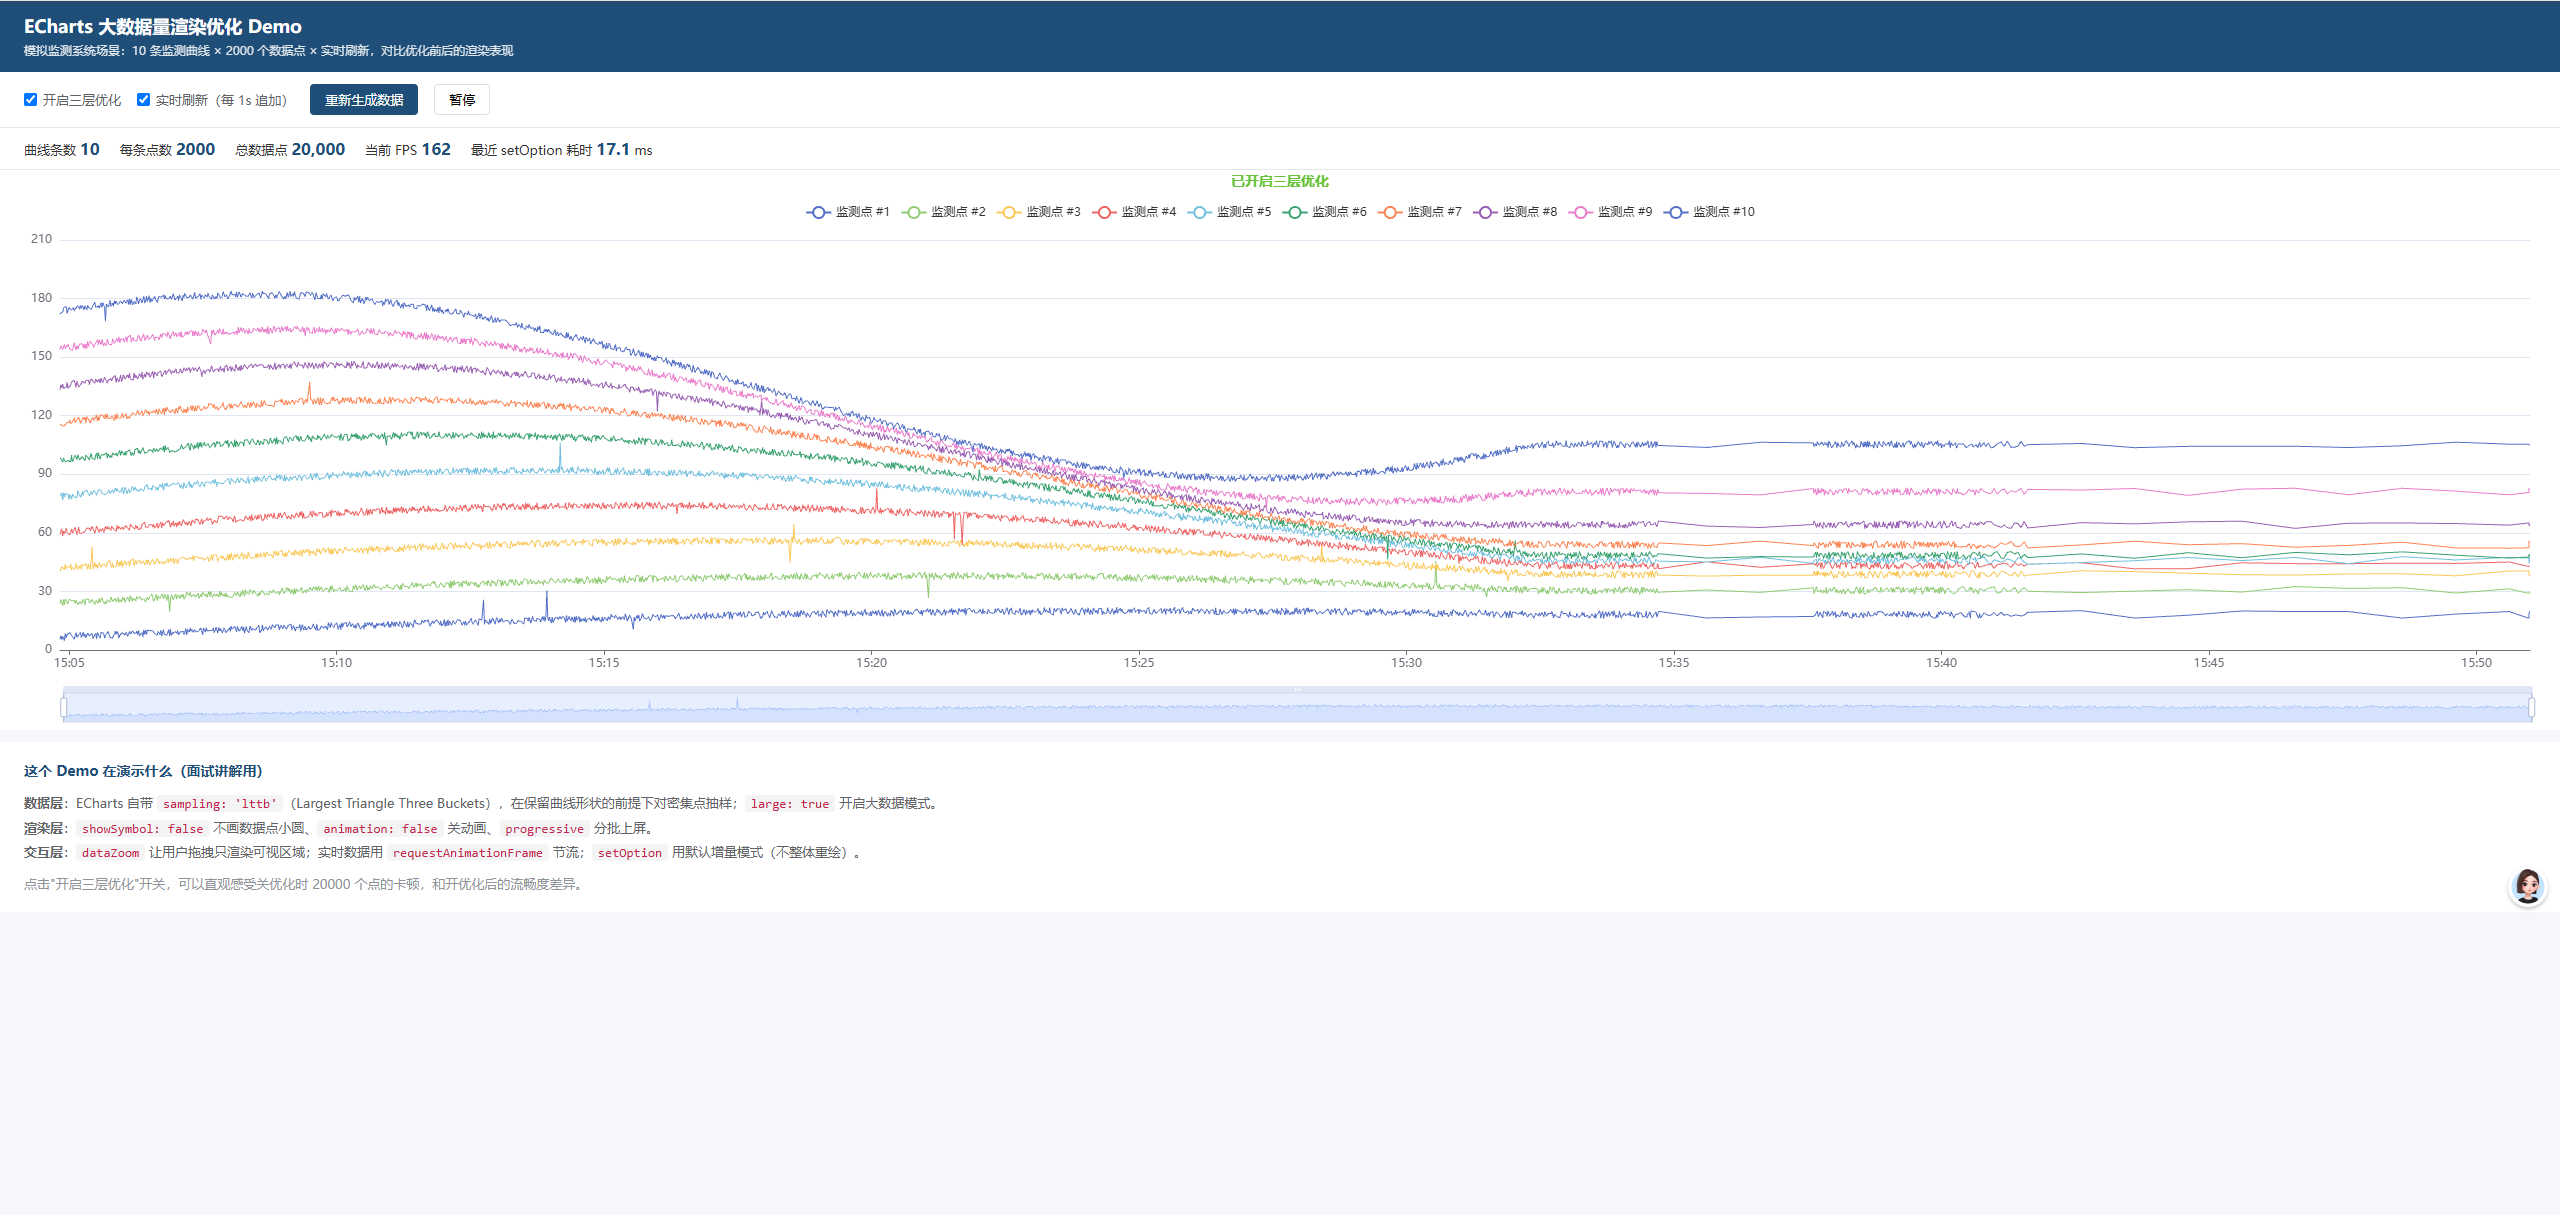
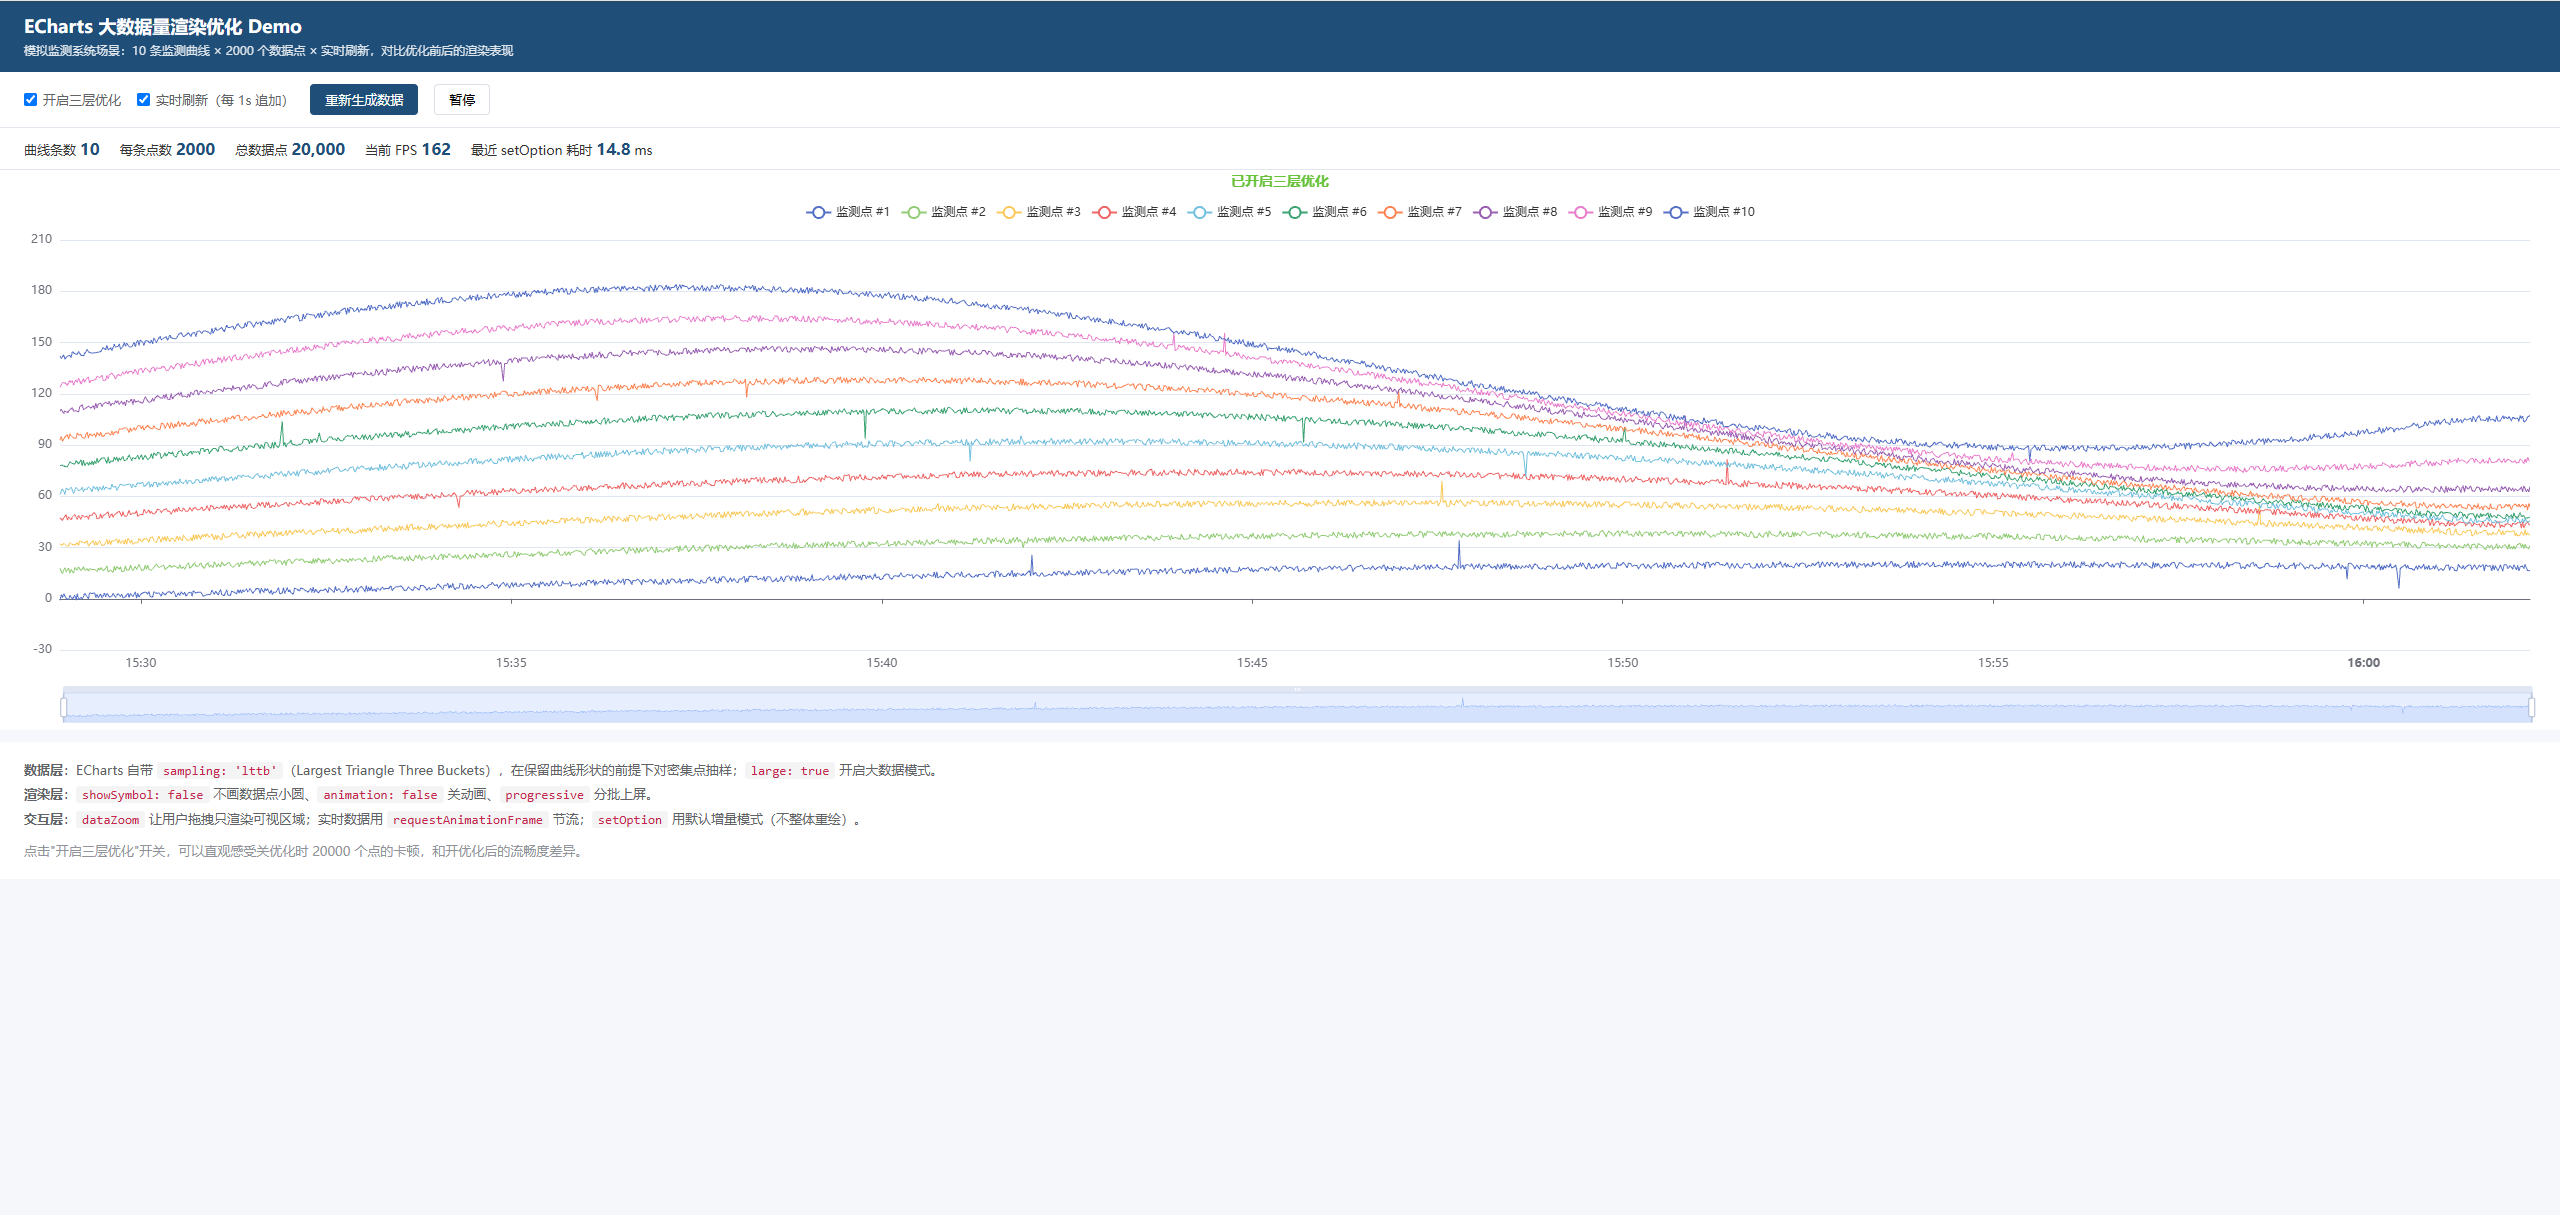
docs: update cleaner screenshot

Changed region(s): [[0.0, 0.2132, 1.0, 0.5481], [0.0, 0.6091, 0.375, 0.7309], [0.9688, 0.7004, 1.0, 0.7613]]

diff --git a/index.html b/index.html
@@ -48,7 +48,6 @@
 <div id="chart"></div>
 
 <div class="explain">
-  <h3>这个 Demo 在演示什么（面试讲解用）</h3>
   <p><b>数据层</b>：ECharts 自带 <code>sampling: 'lttb'</code>（Largest Triangle Three Buckets），在保留曲线形状的前提下对密集点抽样；<code>large: true</code> 开启大数据模式。</p>
   <p><b>渲染层</b>：<code>showSymbol: false</code> 不画数据点小圆、<code>animation: false</code> 关动画、<code>progressive</code> 分批上屏。</p>
   <p><b>交互层</b>：<code>dataZoom</code> 让用户拖拽只渲染可视区域；实时数据用 <code>requestAnimationFrame</code> 节流；<code>setOption</code> 用默认增量模式（不整体重绘）。</p>

diff --git a/README.md b/README.md
@@ -19,7 +19,7 @@ python -m http.server 8080
 
 然后访问 http://localhost:8080
 
-## 这个 Demo 在演示什么
+## 演示
 
 监测系统里一张图可能有几十条曲线，每条几十到上百个点，还在实时刷新。我从**三层**做优化：
 
@@ -69,14 +69,6 @@ python -m http.server 8080
   ]
 }
 ```
-
-## 面试可以怎么讲
-
-> "在监测系统里一张图可能有几十条曲线、几千个点，还在实时刷新。我从三层优化：
-> **数据层**用 ECharts 自带的 lttb 抽样保留关键拐点，同时每条曲线只保留最近 2000 个点防内存膨胀；
-> **渲染层**关掉 symbol、关动画、用 progressive 分批上屏；
-> **交互层**配 dataZoom 让用户缩放时只渲染可视区，实时数据用增量 setOption 不整体重绘。
-> 做完之后一张图 2 万个点也能稳定 60fps。"
 
 ## 可以继续扩展的方向
 
